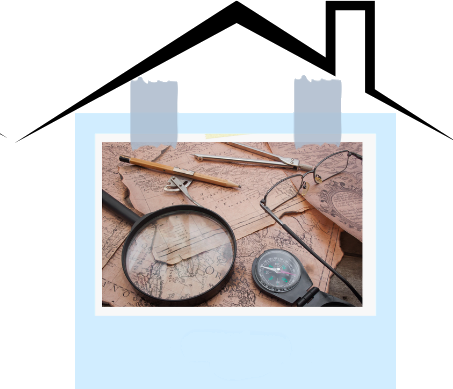
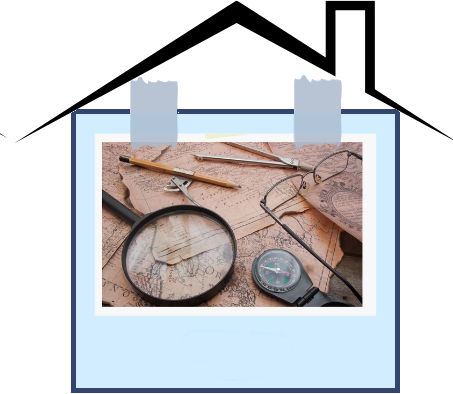
Subject cards: transparent card bg, black arch frame, in-arch animated 'tap to enter' tooltip, count as blue handwritten text (hidden when 0), remove 'to materials' link

diff --git a/src/components/subject-card.module.css b/src/components/subject-card.module.css
@@ -3,10 +3,9 @@
 .card {
   position: relative;
   display: block;
-  background: rgba(255, 255, 255, 0.3);
+  background: transparent;
   border-radius: 90px 90px 16px 16px;
   overflow: hidden;
-  box-shadow: 0 10px 24px rgba(31, 45, 51, 0.08);
   transition: transform 0.3s;
   text-align: center;
   padding-bottom: 16px;
@@ -23,7 +22,7 @@
   margin: 10px 10px 0;
   border-radius: 70px 70px 12px 12px;
   background: transparent;
-  border: 2px solid var(--blue);
+  border: 2px solid #0a0a0a;
   position: relative;
   overflow: hidden;
   display: flex;
@@ -35,10 +34,111 @@
 }
 .card:hover .arch {
   background: color-mix(in srgb, var(--accent, var(--blue)) 22%, transparent);
-  border-color: color-mix(in srgb, var(--accent, var(--blue)) 70%, var(--blue));
+  border-color: #0a0a0a;
 }
 .big .arch {
   height: 174px;
+}
+
+/* טולטיפ "לחצי והיכנסי" — צף בתוך צורת הקשת, באותו מראה של הטולטיפ הכללי של האתר, בריחוף על הכרטיס */
+.tip {
+  position: absolute;
+  top: 50%;
+  left: 50%;
+  translate: -50% -50%;
+  z-index: 3;
+  width: max-content;
+  max-width: 90%;
+  padding: 0.4rem 0.9rem;
+  border-radius: 0.8rem;
+  background: linear-gradient(145deg, rgba(51, 69, 110, 0.97), rgba(28, 40, 68, 0.97));
+  color: #fff;
+  font-family: var(--font-hand);
+  font-size: 1rem;
+  line-height: 1.35;
+  white-space: nowrap;
+  box-shadow:
+    inset 0 0 0 1px rgba(224, 178, 80, 0.85),
+    inset 0 1px 0 rgba(255, 255, 255, 0.22),
+    0 8px 20px rgba(25, 30, 50, 0.3);
+  text-align: center;
+  opacity: 0;
+  scale: 0.9;
+  pointer-events: none;
+  transition:
+    opacity 0.16s ease,
+    scale 0.16s ease;
+}
+/* פס זהב דק מתחת לטקסט, כמו בטולטיפ הכללי של האתר */
+.tip::after {
+  content: "";
+  display: block;
+  height: 2px;
+  width: 70%;
+  margin: 0.3rem auto 0;
+  border-radius: 2px;
+  background: linear-gradient(90deg, transparent, #e0b250, #fff3c4, #e0b250, transparent);
+  background-size: 200% 100%;
+}
+/* הנפשה שמזמינה ללחוץ: קפיצת כניסה, ואז "דופק" עדין של הילה זהובה + ניצוץ שרץ על פס הזהב */
+.card:hover .tip,
+.card:focus-visible .tip {
+  opacity: 1;
+  scale: 1;
+  animation:
+    tipPop 0.45s cubic-bezier(0.34, 1.56, 0.64, 1) both,
+    tipPulse 1.6s ease-in-out 0.45s infinite;
+}
+.card:hover .tip::after,
+.card:focus-visible .tip::after {
+  animation: tipShine 1.6s linear infinite;
+}
+@keyframes tipPop {
+  from {
+    opacity: 0;
+    scale: 0.7;
+    translate: -50% -30%;
+  }
+  to {
+    opacity: 1;
+    scale: 1;
+    translate: -50% -50%;
+  }
+}
+@keyframes tipPulse {
+  0%,
+  100% {
+    scale: 1;
+    box-shadow:
+      inset 0 0 0 1px rgba(224, 178, 80, 0.85),
+      inset 0 1px 0 rgba(255, 255, 255, 0.22),
+      0 8px 20px rgba(25, 30, 50, 0.3),
+      0 0 0 0 rgba(224, 178, 80, 0.55);
+  }
+  50% {
+    scale: 1.07;
+    box-shadow:
+      inset 0 0 0 1px rgba(255, 224, 130, 1),
+      inset 0 1px 0 rgba(255, 255, 255, 0.3),
+      0 10px 24px rgba(25, 30, 50, 0.35),
+      0 0 0 7px rgba(224, 178, 80, 0);
+  }
+}
+@keyframes tipShine {
+  from {
+    background-position: 200% 0;
+  }
+  to {
+    background-position: -200% 0;
+  }
+}
+@media (prefers-reduced-motion: reduce) {
+  .card:hover .tip,
+  .card:focus-visible .tip,
+  .card:hover .tip::after,
+  .card:focus-visible .tip::after {
+    animation: none;
+  }
 }
 
 /* בית + שם המקצוע מתחתיו (השם כבר לא בתוך התמונה) */
@@ -158,20 +258,12 @@
   font-size: 13px;
   pointer-events: none;
 }
+/* מונה החומרים — טקסט חופשי בלי רקע, בכתב גברת לוין, בכחול כהה (דיו האתר) */
 .count {
-  color: var(--terra);
-  background: rgba(31, 45, 51, 0.06);
-}
-
-.go {
-  font-style: normal;
-  color: var(--terra);
-  font-weight: 700;
-  font-size: 12px;
-  display: inline-block;
-  margin-top: 2px;
-  transition: transform 0.25s var(--ease-snap);
-}
-.card:hover .go {
-  transform: translateX(-4px);
+  font-family: var(--font-hand);
+  font-weight: 400;
+  font-size: 16px;
+  color: var(--sea2);
+  background: transparent;
+  padding: 0;
 }

diff --git a/src/components/header.tsx b/src/components/header.tsx
@@ -13,7 +13,7 @@ type HeaderUser = { name: string; role: "user" | "admin" } | null;
 const NAV = [
   { href: "/", label: "בית", tip: "מפרט האתר ועדכונים שותפים" },
   { href: "/subjects", label: "המקצועות", tip: "כניסה לחומרים דרך שם המקצוע" },
-  { href: "/map", label: "מפת הבגרות", tip: "תרשים על חומר הבגרויות והסברים עליו\nתוכלי דרכו להיכנס למקצוע" },
+  { href: "/map", label: "מפת הבגרות", tip: "תרשים והסברים על חומר הבגרות\nתוכלי דרכו להיכנס למקצוע" },
   { href: "/pricing", label: "מסלולים", tip: "אופציות רכישה מגוונות" },
   { href: "/coupons", label: "קופונים זמינים", tip: "קופונים להוזלת הרכישה\nמשתנים מעט לעת או נגמרים" },
   { href: "/account", label: "אזור אישי", tip: "פרטים והודעות שמיועדים דווקא לך" },

diff --git a/src/app/home.module.css b/src/app/home.module.css
@@ -462,10 +462,9 @@
 }
 .subj {
   display: block;
-  background: rgba(255, 255, 255, 0.3);
+  background: transparent;
   border-radius: 160px 160px 24px 24px;
   overflow: hidden;
-  box-shadow: 0 12px 30px rgba(31, 45, 51, 0.08);
   transition: transform 0.3s;
   text-align: center;
   padding-bottom: 26px;
@@ -482,7 +481,7 @@
   margin: 14px 14px 0;
   border-radius: 120px 120px 16px 16px;
   background: transparent;
-  border: 2px solid var(--blue);
+  border: 2px solid #0a0a0a;
   position: relative;
   overflow: hidden;
   display: flex;
@@ -494,7 +493,7 @@
 }
 .subj:hover .arch {
   background: color-mix(in srgb, var(--accent, var(--blue)) 22%, transparent);
-  border-color: color-mix(in srgb, var(--accent, var(--blue)) 70%, var(--blue));
+  border-color: #0a0a0a;
 }
 /* בית + שם המקצוע מתחתיו (השם כבר לא בתוך התמונה) */
 .houseStack {

diff --git a/src/components/subject-card.tsx b/src/components/subject-card.tsx
@@ -72,17 +72,19 @@ export function SubjectCard({
         ) : (
           <SubjectIcon slug={rootSlug || slug} className={s.folderIcon} />
         )}
+        <span className={s.tip} aria-hidden>
+          לחצי והיכנסי
+        </span>
       </div>
       {!house && <h3 className={s.title}>{title}</h3>}
       {description && <p className={s.desc}>{description}</p>}
-      {typeof count === "number" && (
+      {typeof count === "number" && count > 0 && (
         <div className={s.meta}>
           <span className={s.count}>
             {count} {countLabel}
           </span>
         </div>
       )}
-      <em className={s.go}>לחומרים ←</em>
     </Link>
   );
 }
